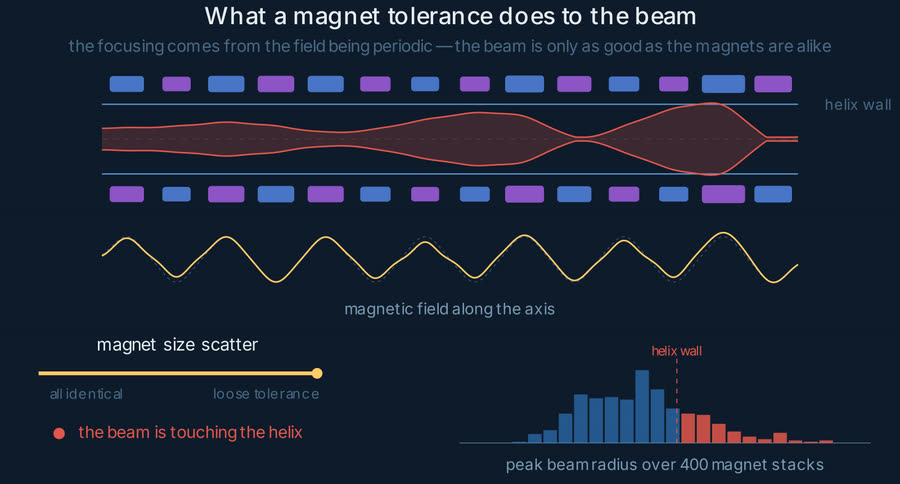
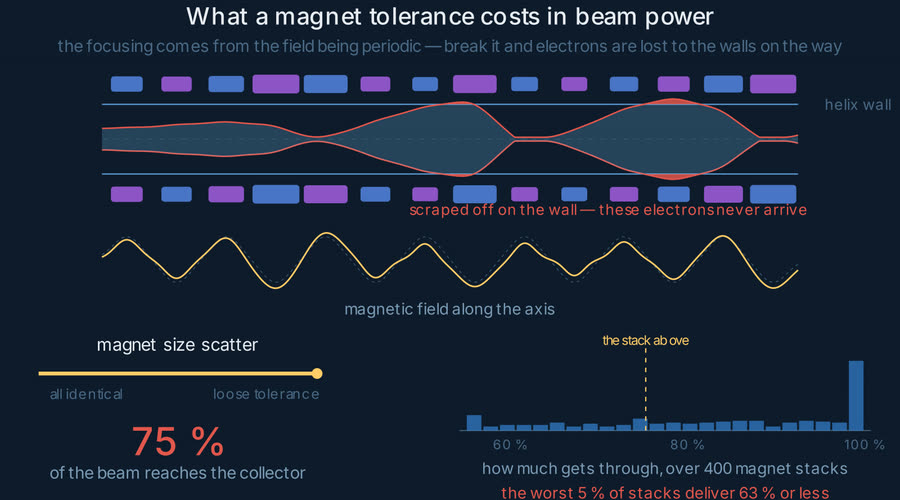
Measure what the study measures: the beam that arrives
The figure was reporting how close the envelope came to the wall. That is an
intermediate, not the answer — what is measured is how much beam survives the
trip, and every electron scraped off on the way is power missing from the
amplified signal.

- a hard-edged beam that swells to r > R keeps (R/r)^2 of its current, so the
  worst excursion sets the loss; that fraction is now the read-out, the
  histogram axis, and the statistic under it (the worst 5 % of stacks).
- the shell that never arrives is drawn in red above the wall, labelled.
- the stack drawn on screen is now a genuine draw from the same distribution
  as the histogram. It was normalised before, which made it milder than its
  own cloud by construction — it read 93 % where a real draw of that scatter
  reads 75 %.
- bar heights go as the square root of the count, or the spike at "no loss at
  all" flattens its own tail; the page and the homepage follow the wording.

diff --git a/projets/thales.html b/projets/thales.html
@@ -4,7 +4,7 @@
   <meta charset="UTF-8" />
   <meta name="viewport" content="width=device-width, initial-scale=1.0" />
   <title>Magnet Tolerances &amp; Beam Quality — Erwan Martin</title>
-  <meta name="description" content="A sensitivity study at Thales: how manufacturing scatter in a traveling-wave tube's focusing magnets propagates to beam quality, with a learned surrogate standing in for the Monte-Carlo physics runs." />
+  <meta name="description" content="A sensitivity study at Thales: how manufacturing scatter in a traveling-wave tube's focusing magnets costs beam power at the collector, with a learned surrogate standing in for the Monte-Carlo physics runs." />
   <style>
     *, *::before, *::after { box-sizing: border-box; margin: 0; padding: 0; }
     :root {
@@ -209,43 +209,45 @@
       <p>
         Manufacturing breaks it. Magnets come off the line with dimensional scatter — a little
         under or over nominal — and every deviation leaves a dent in the field the beam travels
-        through. The envelope starts to scallop, the ripple grows, and in the tail of the
-        distribution the beam grazes the helix: intercepted current, local heating, and gain lost
-        from the very signal the tube exists to amplify.
+        through. The envelope starts to scallop, and wherever it swells past the helix radius that
+        part of the beam is simply scraped off on the wall: current lost, heat deposited where it
+        is least wanted, and power missing from the signal the tube exists to amplify.
       </p>
       <p>
-        So the question is not <em>does this design work</em>. It is: <strong>how much scatter can
-        the tube absorb before the beam degrades, and which dimension is it most sensitive to?</strong>
-        That is a question about a distribution rather than about a single design — which is
-        exactly what makes it expensive.
+        What the study measures is therefore the beam that <em>arrives</em> — the fraction of the
+        current still there at the collector. So the question is not <em>does this design work</em>.
+        It is: <strong>how much manufacturing scatter can the tube absorb before it starts losing
+        beam, and which dimension is it most sensitive to?</strong> That is a question about a
+        distribution rather than about a single design — which is exactly what makes it expensive.
       </p>
 
       <figure class="fig">
         <picture>
           <source srcset="../assets/twt/magnet-tolerance-still.jpg" media="(prefers-reduced-motion: reduce)">
-          <img src="../assets/twt/magnet-tolerance.gif" width="900" height="484"
-               alt="Animated diagram: as the size scatter of the focusing magnets grows, the field along the axis loses its periodicity, the beam envelope scallops until it touches the helix wall, and the distribution of peak beam radius over 400 magnet stacks spreads past the wall.">
+          <img src="../assets/twt/magnet-tolerance.gif" width="900" height="500"
+               alt="Animated diagram: as the size scatter of the focusing magnets grows, the field along the axis loses its periodicity, the beam envelope scallops until part of it is scraped off on the helix wall, and the distribution of transmitted beam power over 400 magnet stacks develops a tail.">
         </picture>
         <figcaption>
-          One pattern of manufacturing deviations, scaled up and back down. The beam envelope is
-          integrated from the paraxial equation for periodic focusing —
-          <em>r″ = K/r − κB(z)²r</em> — and the histogram is that same equation run over 400 draws
-          of the magnet deviations at the scatter currently on screen: a Monte-Carlo study in
-          miniature. The scale is schematic, not a real tolerance budget
+          One stack of magnets, its manufacturing deviations scaled up and back down. The envelope
+          is integrated from the paraxial equation for periodic focusing — <em>r″ = K/r − κB(z)²r</em> —
+          and whatever crosses the helix radius is scraped off, so the beam that arrives carries
+          only <em>(R/r)²</em> of the current it started with. The histogram is that same calculation
+          over 400 draws of the deviations at the scatter currently on screen: a Monte-Carlo study in
+          miniature. The scale carries no numbers — the real tolerance budget is not mine to publish
           (<a href="https://github.com/MartinErwan/MartinErwan.github.io/blob/main/assets/manim/magnets.py" target="_blank" rel="noopener">source</a>).
         </figcaption>
       </figure>
 
       <p>
         Every draw in that histogram is one stack of magnets sampled from its tolerances, and one
-        full electron-optics run in ANSYS: hours of CPU. A Monte-Carlo study that converges wants
+        full electron-optics run in ANSYS to find out how much beam survives it: hours of CPU. A Monte-Carlo study that converges wants
         thousands of them, and a sensitivity analysis wants thousands more.
       </p>
 
       <div class="callout">
         <p>
           Hence the surrogate: run the expensive simulation a few hundred times, let a model learn
-          the mapping from magnet geometry to beam quality, and run the Monte-Carlo on the model
+          the mapping from magnet geometry to transmitted beam, and run the Monte-Carlo on the model
           instead. Milliseconds a draw turns a study you cannot afford into one you can converge.
         </p>
       </div>
@@ -276,7 +278,7 @@
           <div>
             <h4>Buy the data</h4>
             <p>Monte-Carlo draws from those distributions, each one a full electron-optics run in
-               ANSYS, each returning the beam that stack of magnets actually produces. This is the
+               ANSYS, each returning how much of the beam that stack of magnets actually delivers. This is the
                step that costs hours, and the reason everything downstream exists.</p>
           </div>
         </li>
@@ -293,7 +295,7 @@
           <span class="step-n">04</span>
           <div>
             <h4>Model it</h4>
-            <p>A neural network in TensorFlow mapping magnet geometry to beam quality, with the
+            <p>A neural network in TensorFlow mapping magnet geometry to transmitted beam, with the
                feature preparation, scaling and validation split built around the structure of
                the simulated data.</p>
           </div>
@@ -303,8 +305,8 @@
           <div>
             <h4>Ask the question the study was for</h4>
             <p>With a surrogate answering in milliseconds, the Monte-Carlo can run at a sample
-               size the solver could never reach — enough to see the distribution of beam quality
-               and to rank which magnet dimension the tube is most sensitive to.</p>
+               size the solver could never reach — enough to see the distribution of delivered
+               beam power and to rank which magnet dimension the tube is most sensitive to.</p>
           </div>
         </li>
       </ol>

diff --git a/index.html b/index.html
@@ -231,7 +231,7 @@
         <span style="font-size:11px; font-weight:500; padding:3px 8px; border-radius:var(--radius); background:#0a2218; color:#4a9e6b;">Professional</span>
       </div>
       <h3>Magnet Tolerances &amp; Beam Quality</h3>
-      <p>How far the manufacturing scatter of a vacuum tube's focusing magnets propagates into the electron beam it holds. Monte Carlo over the tolerances (ANSYS, Persalys), with an H2O AutoML and TensorFlow surrogate standing in for the solver.</p>
+      <p>How much of its electron beam a vacuum tube loses to the manufacturing scatter of its focusing magnets. Monte Carlo over the tolerances (ANSYS, Persalys), with an H2O AutoML and TensorFlow surrogate standing in for the solver.</p>
       <div class="project-links"><a href="projets/thales.html">View more →</a></div>
     </div>
 
@@ -293,7 +293,7 @@
         <div class="cv-content">
           <h3>Data Scientist Intern</h3>
           <div class="cv-org">Thales · Vélizy-Villacoublay, France</div>
-          <p>Sensitivity of electron beam quality to the manufacturing tolerances of the focusing magnets. Monte Carlo simulation (ANSYS, Persalys), AutoML and Deep Learning surrogate (H2O, TensorFlow).</p>
+          <p>How much beam power a traveling-wave tube loses to the manufacturing tolerances of its focusing magnets, and which dimension it is most sensitive to. Monte Carlo simulation (ANSYS, Persalys), AutoML and Deep Learning surrogate (H2O, TensorFlow).</p>
         </div>
       </div>
     </div>

diff --git a/assets/manim/magnets.py b/assets/manim/magnets.py
@@ -37,7 +37,7 @@ Y_MAG = 0.87             # magnet rows, above and below the axis
 H_MAG = 0.26
 
 FIELD_Y, FIELD_A = -0.15, 0.36
-HIST_X0, HIST_X1, HIST_Y, HIST_H = 0.25, 6.55, -3.05, 1.15
+HIST_X0, HIST_X1, HIST_Y, HIST_H = 0.25, 6.55, -2.85, 1.10
 BAR_X0, BAR_X1, BAR_Y = -6.50, -2.10, -1.95
 
 # envelope equation constants, tuned so a perfect stack gives a quiet beam
@@ -72,6 +72,18 @@ class MagnetScatter(TWTScene):
              * np.exp(-((z[None, :] - centres[:, None]) / w[:, None]) ** 2))
         return b.sum(axis=0)
 
+    @staticmethod
+    def transmission(r):
+        """Fraction of the beam that reaches the collector.
+
+        A hard-edged beam of radius r carries its current uniformly over the
+        area, so an excursion out to r > R_WALL scrapes everything outside the
+        wall: what is left is (R_WALL / r)^2 of the current. The worst
+        excursion sets the loss — once a shell is gone it is gone.
+        """
+        peak = np.max(r, axis=-1)
+        return np.minimum(1.0, (R_WALL / np.maximum(peak, 1e-6)) ** 2)
+
     def envelope(self, devs):
         """r(z) for a stack of draws. devs: (M, N_MAG) -> (M, NZ)."""
         z = np.linspace(Z0, Z1, NZ)
@@ -90,21 +102,25 @@ class MagnetScatter(TWTScene):
     def setup_physics(self):
         self.r_matched = 0.17
         self.rng = np.random.default_rng(5)
-        # the stack drawn on screen: picked so that it is comfortably inside the
-        # tube at half scatter and grazes the helix at full scatter
-        self.pattern = np.random.default_rng(300).normal(0, 1, N_MAG)
-        self.pattern /= np.abs(self.pattern).max()
+        # The stack drawn on screen is a genuine draw from the same distribution
+        # as the cloud — not a normalised one, which would always be milder than
+        # its own histogram. This one loses nothing at half scatter and about a
+        # quarter of the beam at full scatter.
+        self.pattern = np.random.default_rng(409).normal(0, 1, N_MAG)
         # the Monte-Carlo cloud, precomputed once per scatter level
         self.levels = np.linspace(0, self.SMAX, self.LEVELS)
         cloud = self.rng.normal(0, 1, (self.DRAWS, N_MAG))
-        self.hist = []
-        edges = np.linspace(0.10, 0.95, 27)
-        self.edges = edges
+        self.edges = np.linspace(0.55, 1.0, 25)
+        self.hist, self.p5 = [], []
         for s in self.levels:
             _, r = self.envelope(cloud * s)
-            peak = r[:, NZ // 4:].max(axis=1)
-            h, _ = np.histogram(np.clip(peak, edges[0], edges[-1] - 1e-6), bins=edges)
+            t = self.transmission(r[:, NZ // 4:])
+            h, _ = np.histogram(np.clip(t, self.edges[0], self.edges[-1] - 1e-9),
+                                bins=self.edges)
+            # square root, or the spike at "no loss at all" flattens its own tail
+            h = np.sqrt(h)
             self.hist.append(h / max(h.max(), 1))
+            self.p5.append(float(np.percentile(t, 5)))
         self.hist = np.array(self.hist)
 
     def scatter_now(self):
@@ -156,20 +172,33 @@ class MagnetScatter(TWTScene):
         return g
 
     def beam_band(self):
+        """The core that gets through, and in red the shell scraped off on the way."""
         z, r = self.envelope(self.devs_now())
         r = r[0]
-        hit = r.max() > R_WALL
-        col = BAD if hit else ELECTRON
-        top = np.stack([z, AXIS_Y + r, np.zeros_like(z)], axis=1)
-        bot = np.stack([z[::-1], AXIS_Y - r[::-1], np.zeros_like(z)], axis=1)
-        area = VMobject(stroke_width=0, fill_color=col, fill_opacity=0.22)
-        area.set_points_as_corners(np.concatenate([top, bot, top[:1]]))
-        edge = VGroup()
-        for pts in (top, bot):
-            e = VMobject(stroke_color=col, stroke_width=2.4)
-            e.set_points_as_corners(pts)
-            edge.add(e)
-        return VGroup(area, edge)
+        core = np.minimum(r, R_WALL)
+
+        def band(lo, hi, colour, fill):
+            top = np.stack([z, AXIS_Y + hi, np.zeros_like(z)], axis=1)
+            bot = np.stack([z[::-1], AXIS_Y + lo[::-1], np.zeros_like(z)], axis=1)
+            a = VMobject(stroke_width=0, fill_color=colour, fill_opacity=fill)
+            a.set_points_as_corners(np.concatenate([top, bot, top[:1]]))
+            return a
+
+        g = VGroup(band(-core, core, ELECTRON, 0.22))
+        if r.max() > R_WALL:                      # what never makes it to the collector
+            g.add(band(np.full_like(r, R_WALL), np.maximum(r, R_WALL), BAD, 0.85),
+                  band(-np.maximum(r, R_WALL), np.full_like(r, -R_WALL), BAD, 0.85))
+            # below the tube: the only band of clear space near the excursion
+            lost = T("scraped off on the wall — these electrons never arrive", 17, BAD)
+            lost.move_to([float(np.clip(z[int(np.argmax(r))], Z0 + 3.0, Z1 - 3.0)), 0.62, 0])
+            g.add(lost)
+        for sgn in (1, -1):
+            e = VMobject(stroke_color=BAD if r.max() > R_WALL else ELECTRON,
+                         stroke_width=2.4)
+            e.set_points_as_corners(
+                np.stack([z, AXIS_Y + sgn * r, np.zeros_like(z)], axis=1))
+            g.add(e)
+        return g
 
     # -- the field ---------------------------------------------------------
     def field_trace(self):
@@ -199,50 +228,65 @@ class MagnetScatter(TWTScene):
         return VGroup(track, fill, knob, title, ends)
 
     def verdict(self):
-        z, r = self.envelope(self.devs_now())
-        hit = r[0].max() > R_WALL
-        col = BAD if hit else GOOD
-        txt = "the beam is touching the helix" if hit else "the beam clears the helix"
-        dot = Dot(radius=0.09, color=col)
-        lbl = T(txt, 19, col)
-        g = VGroup(dot, lbl).arrange(RIGHT, buff=0.22)
-        g.move_to([(BAR_X0 + BAR_X1) / 2, BAR_Y - 0.95, 0])
+        """What the study actually measures: how much of the beam gets through."""
+        _, r = self.envelope(self.devs_now())
+        t = float(self.transmission(r[:, NZ // 4:])[0])
+        col = GOOD if t > 0.985 else (WARN if t > 0.93 else BAD)
+        num = T(f"{t * 100:.0f} %", 44, col, weight=MEDIUM)
+        lbl = T("of the beam reaches the collector", 19, MUTED)
+        g = VGroup(num, lbl).arrange(DOWN, buff=0.16)
+        g.move_to([(BAR_X0 + BAR_X1) / 2, BAR_Y - 1.25, 0])
         return g
 
     # -- the Monte-Carlo cloud --------------------------------------------
     def histogram(self):
         i = int(np.clip(np.searchsorted(self.levels, self.scatter_now()),
                         0, self.LEVELS - 1))
-        h = self.hist[i]
-        e = self.edges
-        span = HIST_X1 - HIST_X0
-        g = VGroup()
+        h, e = self.hist[i], self.edges
+        span, lo, hi = HIST_X1 - HIST_X0, e[0], e[-1]
+
+        def sx(v):
+            return HIST_X0 + span * (v - lo) / (hi - lo)
+
+        bars = VGroup()
         for k, v in enumerate(h):
-            x0 = HIST_X0 + span * (e[k] - e[0]) / (e[-1] - e[0])
-            x1 = HIST_X0 + span * (e[k + 1] - e[0]) / (e[-1] - e[0])
-            over = e[k] >= R_WALL
             if v <= 0:
                 continue
-            g.add(Rectangle(width=(x1 - x0) * 0.88, height=max(v * HIST_H, 0.004),
-                            stroke_width=0, fill_color=BAD if over else ACCENT,
-                            fill_opacity=0.85 if over else 0.55)
-                  .move_to([(x0 + x1) / 2, HIST_Y + max(v * HIST_H, 0.004) / 2, 0]))
+            x0, x1 = sx(e[k]), sx(e[k + 1])
+            height = max(v * HIST_H, 0.004)
+            bars.add(Rectangle(width=(x1 - x0) * 0.88, height=height, stroke_width=0,
+                               fill_color=ACCENT, fill_opacity=0.65)
+                     .move_to([(x0 + x1) / 2, HIST_Y + height / 2, 0]))
+
         base = Line([HIST_X0 - 0.1, HIST_Y, 0], [HIST_X1 + 0.1, HIST_Y, 0],
                     stroke_color=FAINT, stroke_width=1.5)
-        xw = HIST_X0 + span * (R_WALL - e[0]) / (e[-1] - e[0])
-        wall = DashedLine([xw, HIST_Y, 0], [xw, HIST_Y + HIST_H + 0.18, 0],
-                          dash_length=0.08, stroke_color=BAD, stroke_width=1.6)
-        wlbl = T("helix wall", 15, BAD).next_to(wall, UP, buff=0.05)
-        cap = T("peak beam radius over 400 magnet stacks", 18, MUTED)
-        cap.move_to([(HIST_X0 + HIST_X1) / 2, HIST_Y - 0.36, 0])
-        return VGroup(base, g, wall, wlbl, cap)
+        ticks = VGroup()
+        for v in (0.6, 0.8, 1.0):
+            ticks.add(T(f"{v * 100:.0f} %", 15, FAINT).move_to([sx(v), HIST_Y - 0.22, 0]))
+
+        # where the stack drawn above sits in that distribution
+        _, r = self.envelope(self.devs_now())
+        t = float(self.transmission(r[:, NZ // 4:])[0])
+        needle = DashedLine([sx(t), HIST_Y, 0], [sx(t), HIST_Y + HIST_H + 0.2, 0],
+                            dash_length=0.08, stroke_color=WARN, stroke_width=2)
+        ntag = T("the stack above", 15, WARN).next_to(needle, UP, buff=0.05)
+        if sx(t) > HIST_X1 - 1.1:
+            ntag.shift(LEFT * 0.9)
+
+        cap = T("how much gets through, over 400 magnet stacks", 18, MUTED)
+        cap.move_to([(HIST_X0 + HIST_X1) / 2, HIST_Y - 0.62, 0])
+        p5 = self.p5[i]
+        worst = T(f"the worst 5 % of stacks deliver {p5 * 100:.0f} % or less",
+                  18, GOOD if p5 > 0.985 else (WARN if p5 > 0.93 else BAD))
+        worst.move_to([(HIST_X0 + HIST_X1) / 2, HIST_Y - 0.98, 0])
+        return VGroup(base, bars, needle, ntag, ticks, cap, worst)
 
     # -- fixed text --------------------------------------------------------
     def chrome(self):
-        title = T("What a magnet tolerance does to the beam", 27, TXT,
+        title = T("What a magnet tolerance costs in beam power", 27, TXT,
                   weight=MEDIUM).move_to([0, 3.66, 0])
-        sub = T("the focusing comes from the field being periodic — the beam is only as good "
-                "as the magnets are alike", 19, FAINT).move_to([0, 3.20, 0])
+        sub = T("the focusing comes from the field being periodic — break it and electrons "
+                "are lost to the walls on the way", 19, FAINT).move_to([0, 3.20, 0])
         flab = T("magnetic field along the axis", 18, MUTED)
         flab.move_to([0, FIELD_Y - 0.80, 0])
         return VGroup(title, sub, flab)

diff --git a/assets/manim/README.md b/assets/manim/README.md
@@ -7,7 +7,7 @@ Source of the explainer animations on
 | Scene | What it shows | Used as |
 |---|---|---|
 | `TravelingWaveTube` | The full explainer: the tube, the electron beam and its focusing, why the helix slows the wave down, bunching and exponential gain | `assets/twt/twt-explainer.mp4` |
-| `MagnetScatter` (in `magnets.py`) | What the project is actually about: scale the manufacturing scatter of the focusing magnets up and back down, and watch the field lose its periodicity, the beam envelope scallop into the helix, and the distribution of beam quality spread past the wall | `assets/twt/magnet-tolerance.gif` |
+| `MagnetScatter` (in `magnets.py`) | What the project is actually about: scale the manufacturing scatter of the focusing magnets up and back down, and watch the field lose its periodicity, part of the beam get scraped off on the helix, and the distribution of *delivered beam power* over 400 stacks grow a tail | `assets/twt/magnet-tolerance.gif` |
 | `TWTLoop3D` (in `twt3d.py`) | The same figure with a real helix, seen from a camera level with the axis: the signal spirals round the beam instead of oscillating past it | `assets/twt/twt-loop-3d.gif` |
 | `TWTLoop` | The labelled figure used on the page. The signal is lit along the circuit it really travels — in at one RF connector, round every turn of the helix, out at the other — so the slow-wave trick is visible rather than asserted; its amplitude is plotted in a lane of its own below. Loops exactly: the wave covers the whole wire in one loop, and six wavelengths fit on it | `assets/twt/twt-loop.gif` |
 
@@ -54,6 +54,18 @@ estimate and still renders on its own.
 
 Voice: [Piper](https://github.com/rhasspy/piper), `en_US-ryan-high`. That model
 is trained on RyanSpeech, which is CC BY-NC-SA 4.0 — personal use only.
+
+## Note on the magnet figure
+
+The envelope is the paraxial equation for periodic permanent-magnet focusing,
+`r'' = K/r - kappa B(z)^2 r`, with `kappa` tuned so a perfect stack advances the
+betatron phase by ~1.2 rad per magnet period — inside the stable band, which is
+why a perfect stack sits quiet. What crosses the helix radius is scraped off, so
+a hard-edged beam that swells to `r > R` keeps `(R/r)^2` of its current: that
+ratio is the number the figure reports, and the one the study was after. The
+stack drawn on screen is a genuine draw from the same distribution as the
+histogram, not a normalised one — a normalised stack is always milder than its
+own histogram.
 
 ## Note on the physics
 
